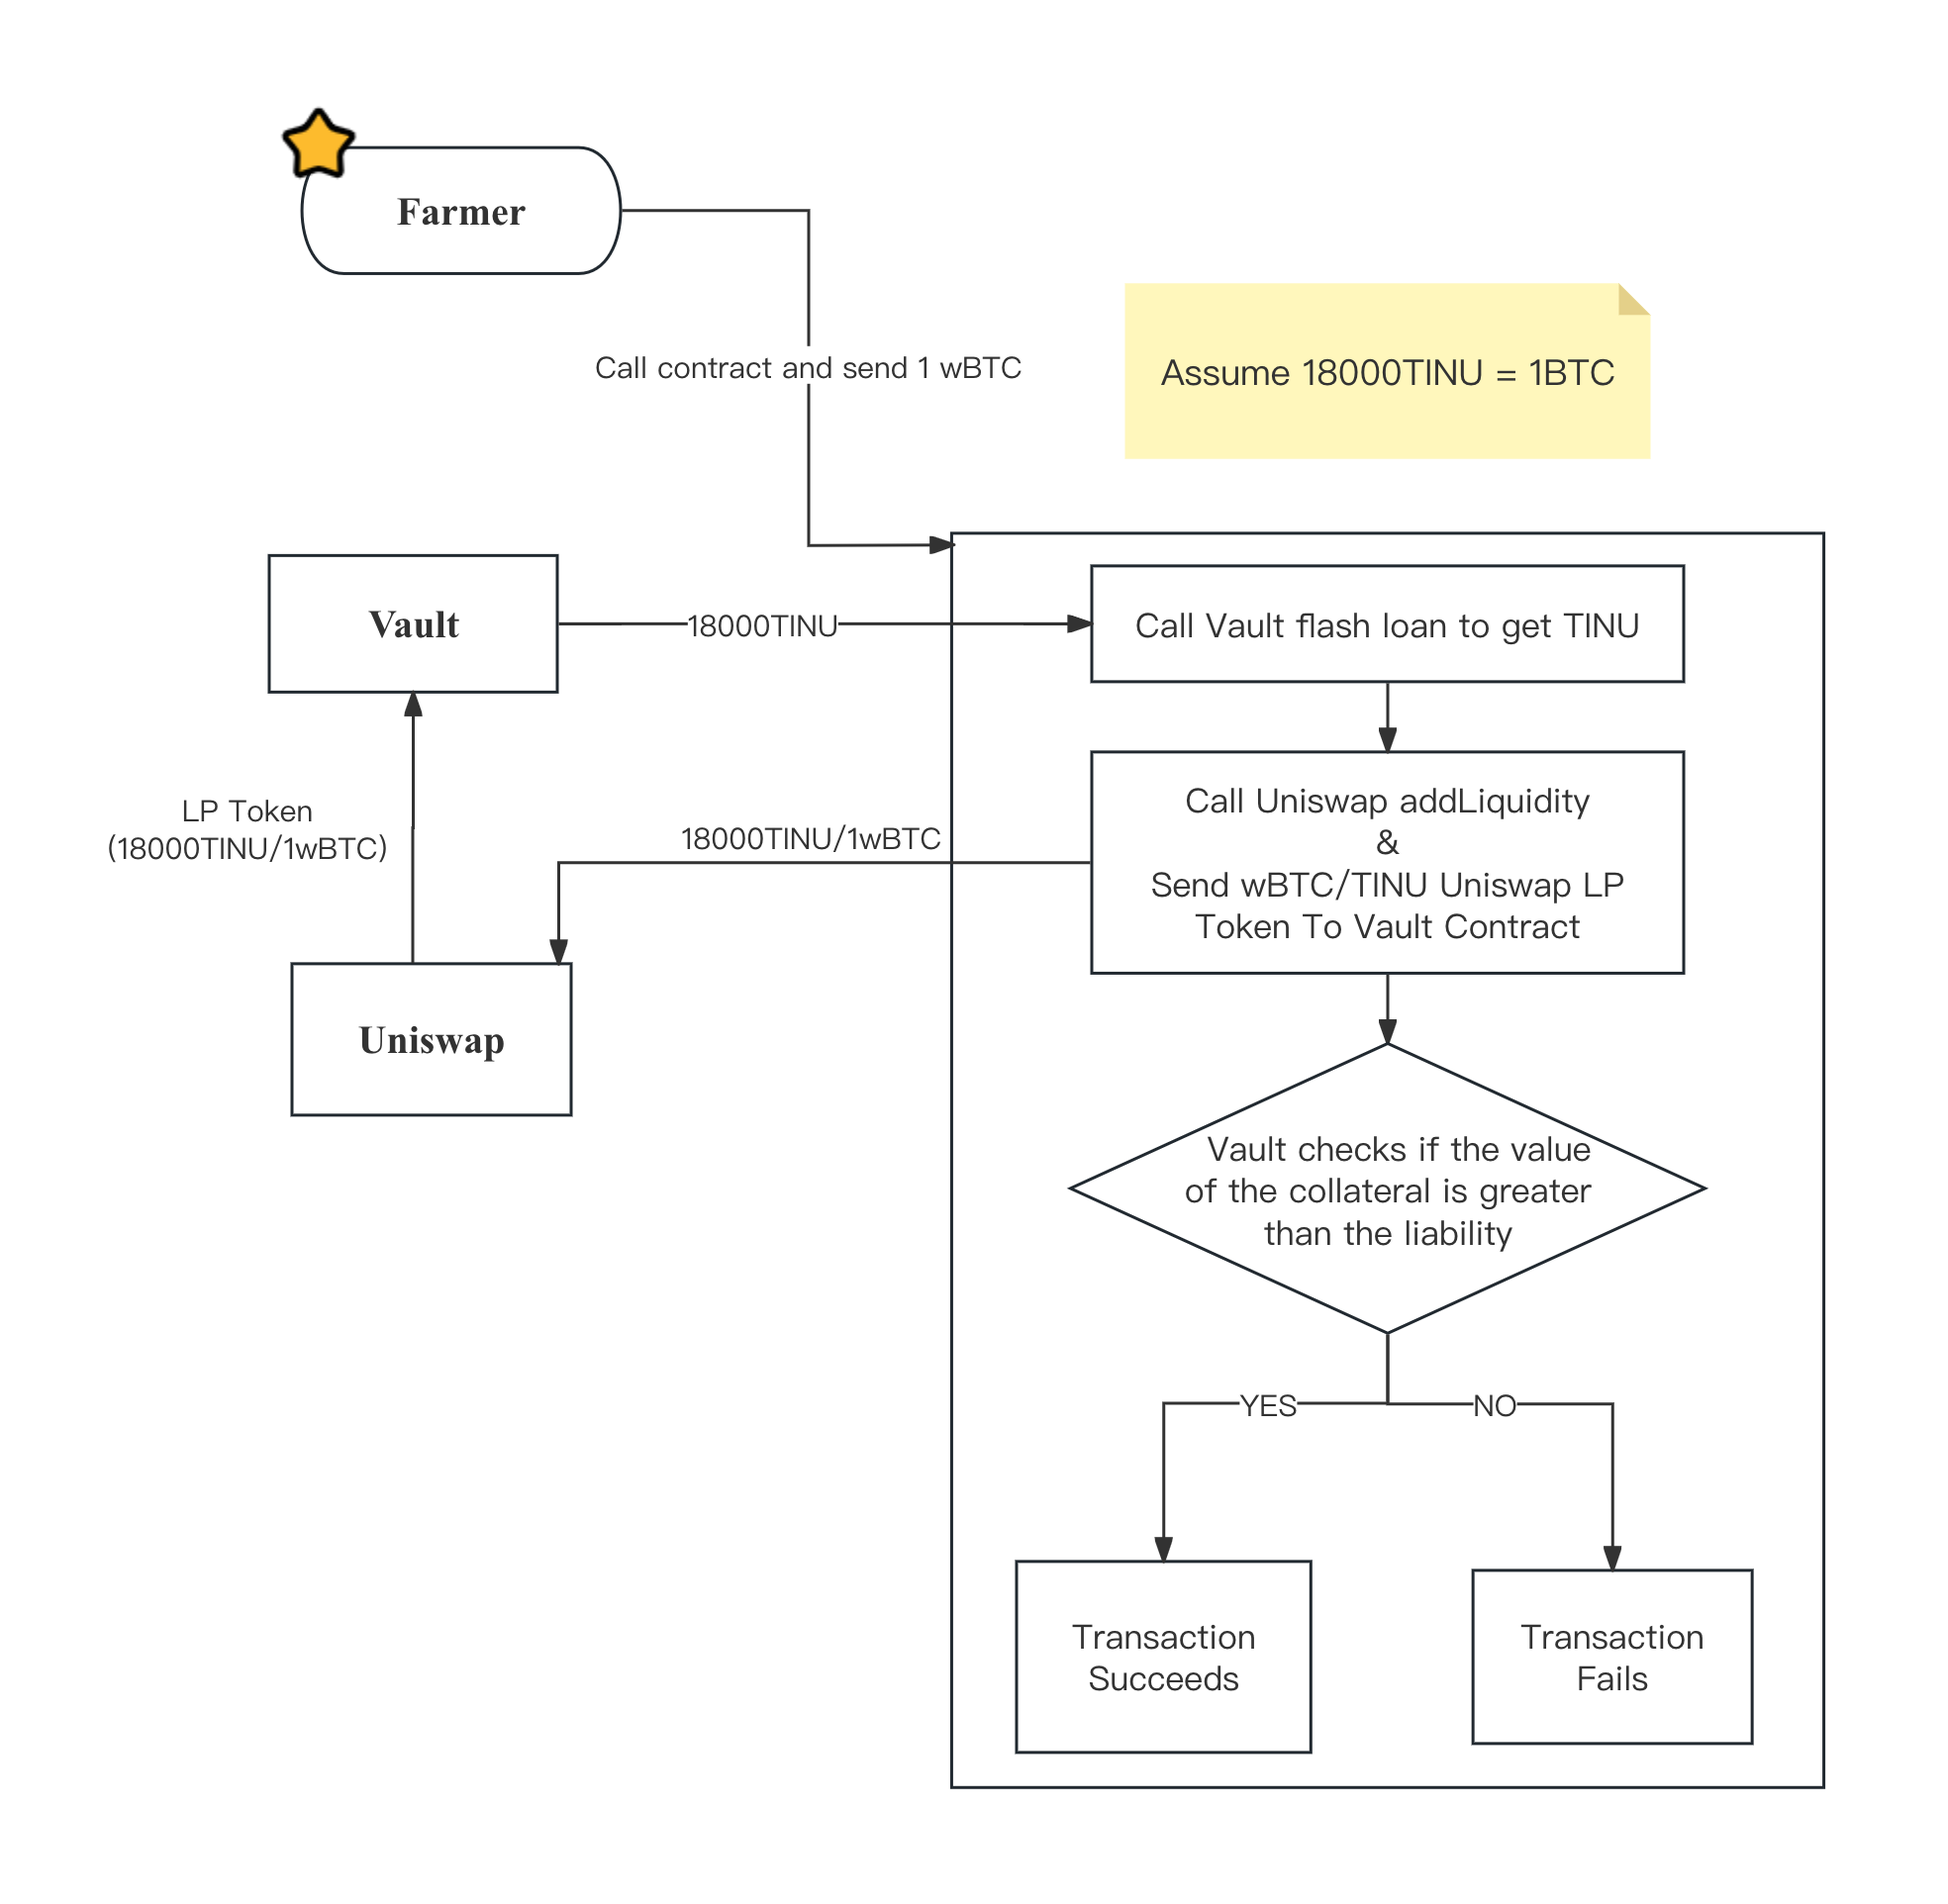
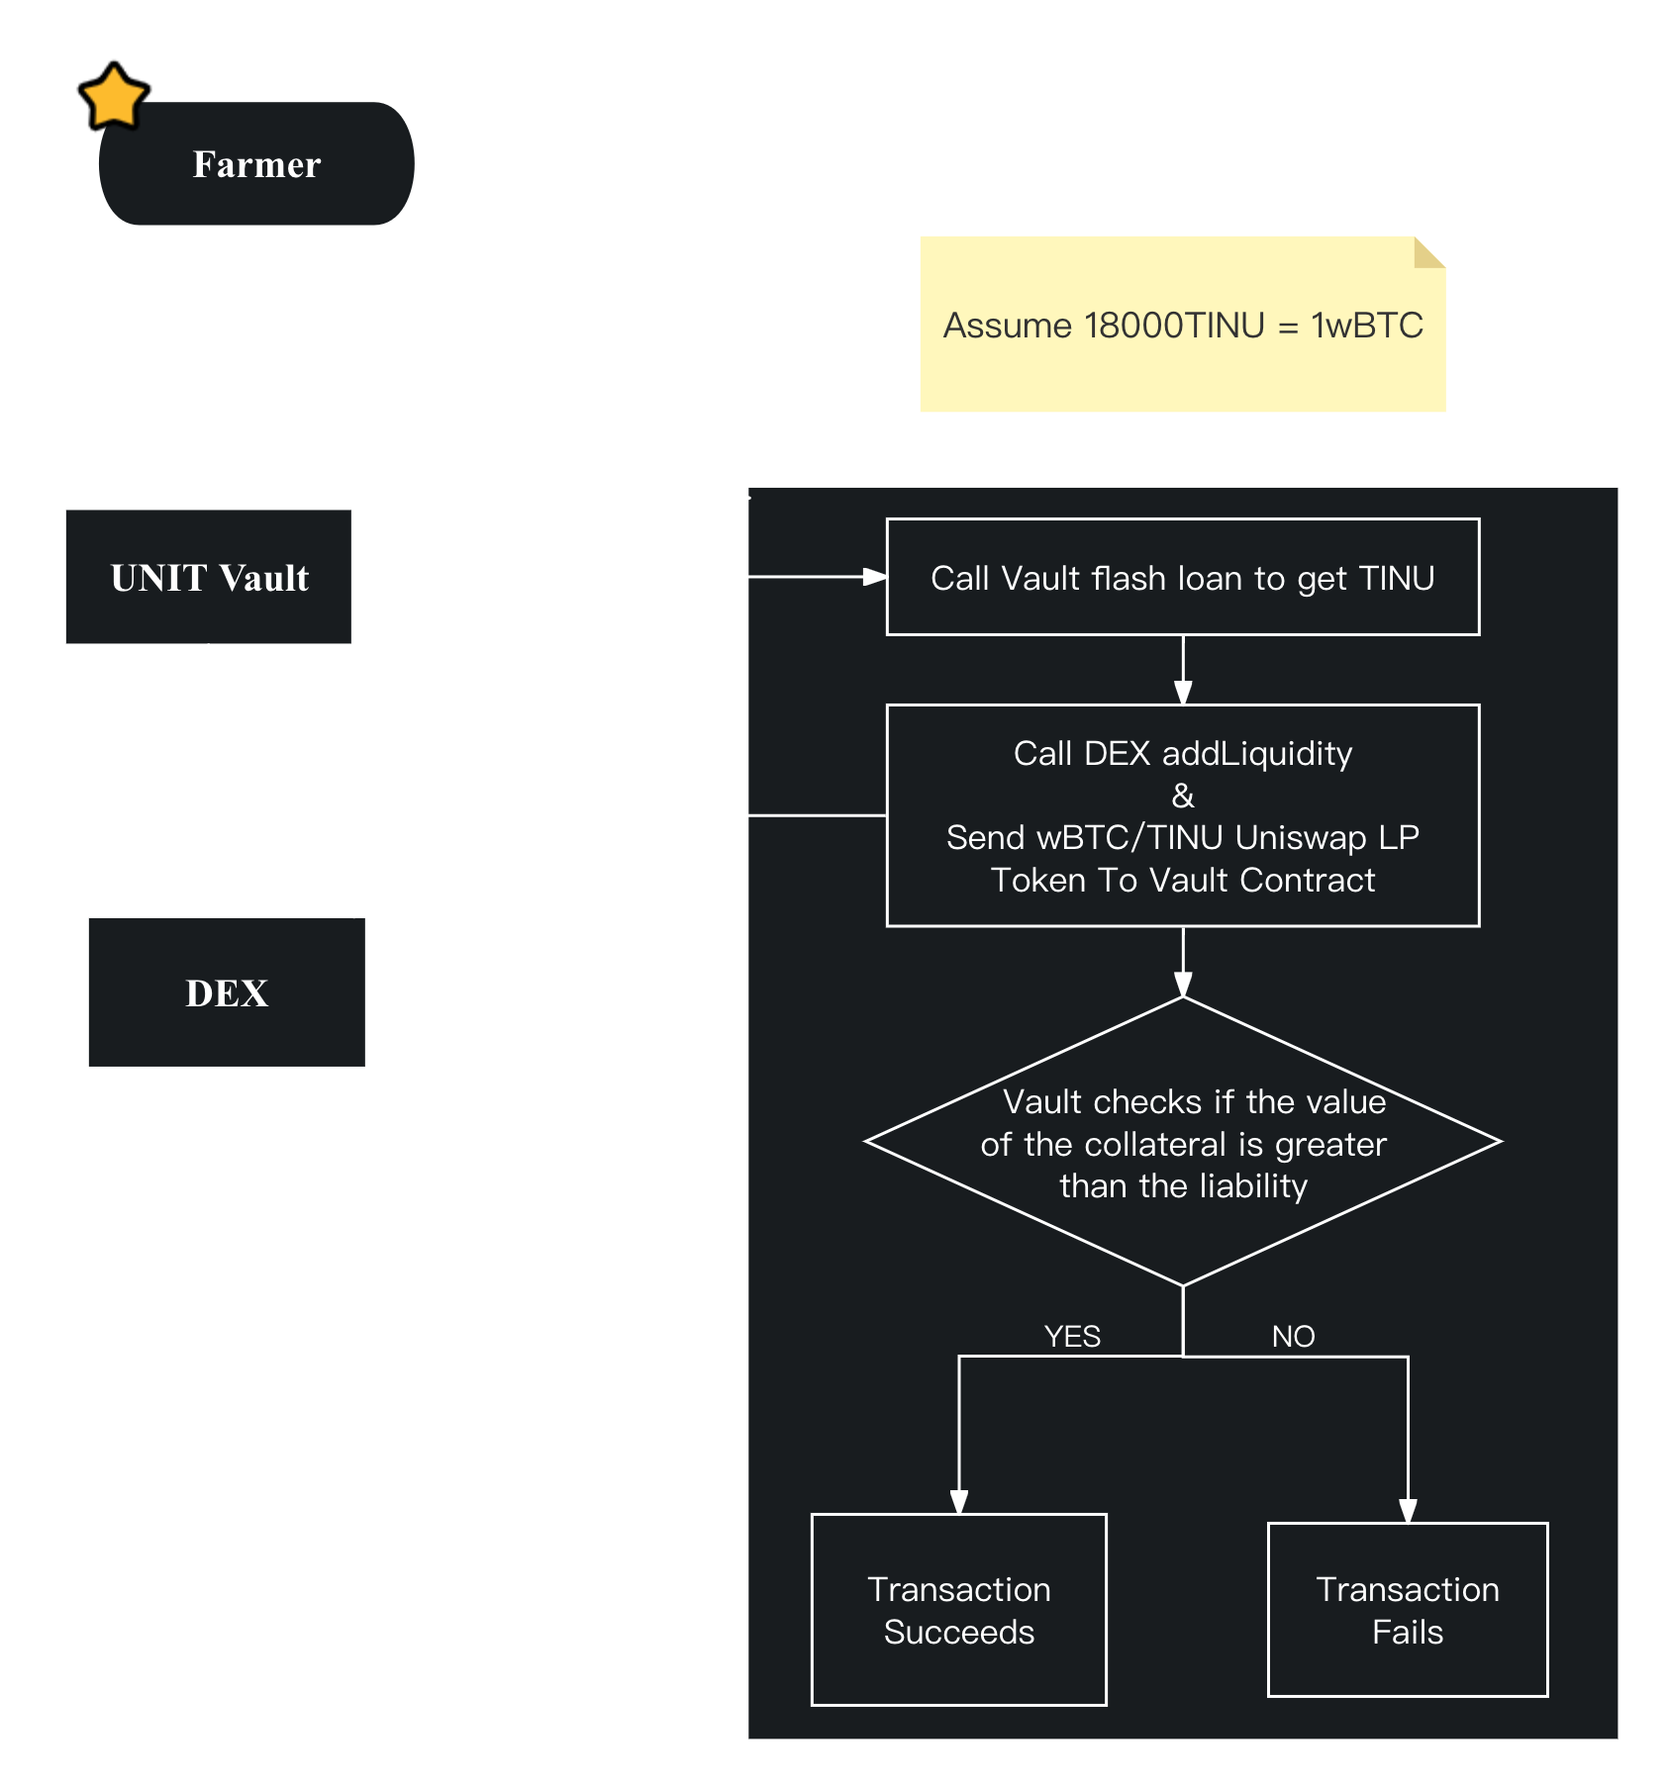
GITBOOK-154: Upload Dark Mode pics

diff --git a/README.md b/README.md
@@ -34,7 +34,7 @@ The **SDR (Special Drawing Rights)** is an international reserve asset. It is th
 
 On the other hand, UNIT is **a unit of account representing a basket of leading cryptocurrencies**. It is designed to be **a stable and reliable reference for the valuation, trading, and settlement of crypto assets**. Like SDR, UNIT aims to provide **a global standard for the cryptocurrency market, enabling more stable, decentralized, and unbiased transactions**.
 
-<figure><img src=".gitbook/assets/Analogy SDR.jpg" alt=""><figcaption><p>SDR vs. UNIT</p></figcaption></figure>
+<figure><picture><source srcset=".gitbook/assets/SDR white version (1).png" media="(prefers-color-scheme: dark)"><img src=".gitbook/assets/Analogy SDR.jpg" alt=""></picture><figcaption><p>SDR vs. UNIT</p></figcaption></figure>
 
 ### UF vs. UNIT (Unit of Account/Flatcoin)
 
@@ -46,4 +46,4 @@ This is an innovative idea born from Chile’s own experience with hyperinflatio
 
 The UNIT agrees with UF in allowing people to **count in real value** and hold their purchasing power, in the UNIT’s case, **hold purchasing power in the crypto space**. While having the same essence of being **a unit of account that is not a currency**, the UNIT can now grow without borders thanks to the openness and decentralization in the cryptocurrency space. The UNIT eliminates the difficulties with UF’s high entry barrier, permissioned use, and central control over its algorithm. By replacing centralization with decentralization, we gain a more **accurate, unbiased, and accessible unit of account for DeFi**.
 
-<figure><img src=".gitbook/assets/Analogy UF.png" alt=""><figcaption><p>UF vs. UNIT</p></figcaption></figure>
+<figure><picture><source srcset=".gitbook/assets/UF white version (1).png" media="(prefers-color-scheme: dark)"><img src=".gitbook/assets/Analogy UF.png" alt=""></picture><figcaption><p>UF vs. UNIT</p></figcaption></figure>

diff --git a/unit-etf/early-incentives.md b/unit-etf/early-incentives.md
@@ -2,7 +2,7 @@
 
 Farms create UNIT vaults and bring a stream of UN incentives to participants.
 
-<figure><img src="../.gitbook/assets/截屏2023-11-13 15.11.04.png" alt=""><figcaption><p>wBTC UNIT Farm Diagram</p></figcaption></figure>
+<figure><picture><source srcset="../.gitbook/assets/UNIT Farm white version.png" media="(prefers-color-scheme: dark)"><img src="../.gitbook/assets/UNIT Farm.png" alt=""></picture><figcaption><p>wBTC UNIT Farm Diagram</p></figcaption></figure>
 
 1. Farmers receive rewards in the form of UN from the **farm pool**.&#x20;
 2. Vaults are **completely capitalized** by using **DEX LP tokens** as **collateral**.&#x20;
@@ -10,4 +10,4 @@ Farms create UNIT vaults and bring a stream of UN incentives to participants.
 
 The UNIT Farms transaction structure is as follows:
 
-<figure><img src="../.gitbook/assets/Complex Version Farm 3.png" alt=""><figcaption><p>wBTC UNIT Farm Transacation Structure</p></figcaption></figure>
+<figure><picture><source srcset="../.gitbook/assets/Complex Version Farm.png" media="(prefers-color-scheme: dark)"><img src="../.gitbook/assets/Complex Version Farm 3.png" alt=""></picture><figcaption><p>wBTC UNIT Farm Transacation Structure</p></figcaption></figure>

diff --git a/unit-etf/collateralized-vaults-tinu-minting-and-burning.md b/unit-etf/collateralized-vaults-tinu-minting-and-burning.md
@@ -2,7 +2,7 @@
 
 UNIT vaults are collateralized using assets admitted by The UNIT governance. Currently, **ETH** is the sole collateral source, but The UNIT governance will soon consider **other collateral sources**, such as the native tokens of **BSC, Polygon, Near,** and others**.** To mint TINU, participants must deposit ETH into UNIT vaults.&#x20;
 
-<figure><img src="../.gitbook/assets/UNIT Vaults (1).png" alt=""><figcaption><p>A UNIT Vault</p></figcaption></figure>
+<figure><picture><source srcset="../.gitbook/assets/UNIT Vault white version.png" media="(prefers-color-scheme: dark)"><img src="../.gitbook/assets/UNIT Vault dark version.png" alt=""></picture><figcaption><p>A UNIT Vault</p></figcaption></figure>
 
 Each vault only contains one particular asset and a set of **risk parameters** to ensure the stability of TINU:
 

diff --git a/unit-etf/bitcoin-dominance-margin-trading.md b/unit-etf/bitcoin-dominance-margin-trading.md
@@ -12,7 +12,7 @@ This way TINU creates a proxy to trade Bitcoin dominance as follows:
 
 The following diagram explains how UNIT farms are used to long BTC dominance.
 
-<figure><img src="../.gitbook/assets/2x Long wBTC Farm 3.png" alt=""><figcaption><p>2x Long wBTC</p></figcaption></figure>
+<figure><picture><source srcset="../.gitbook/assets/2x Farm white version.png" media="(prefers-color-scheme: dark)"><img src="../.gitbook/assets/2x Long wBTC Farm 3.png" alt=""></picture><figcaption><p>2x Long wBTC</p></figcaption></figure>
 
 ## Short Bitcoin Dominance (Short wBTC against TINU)
 
